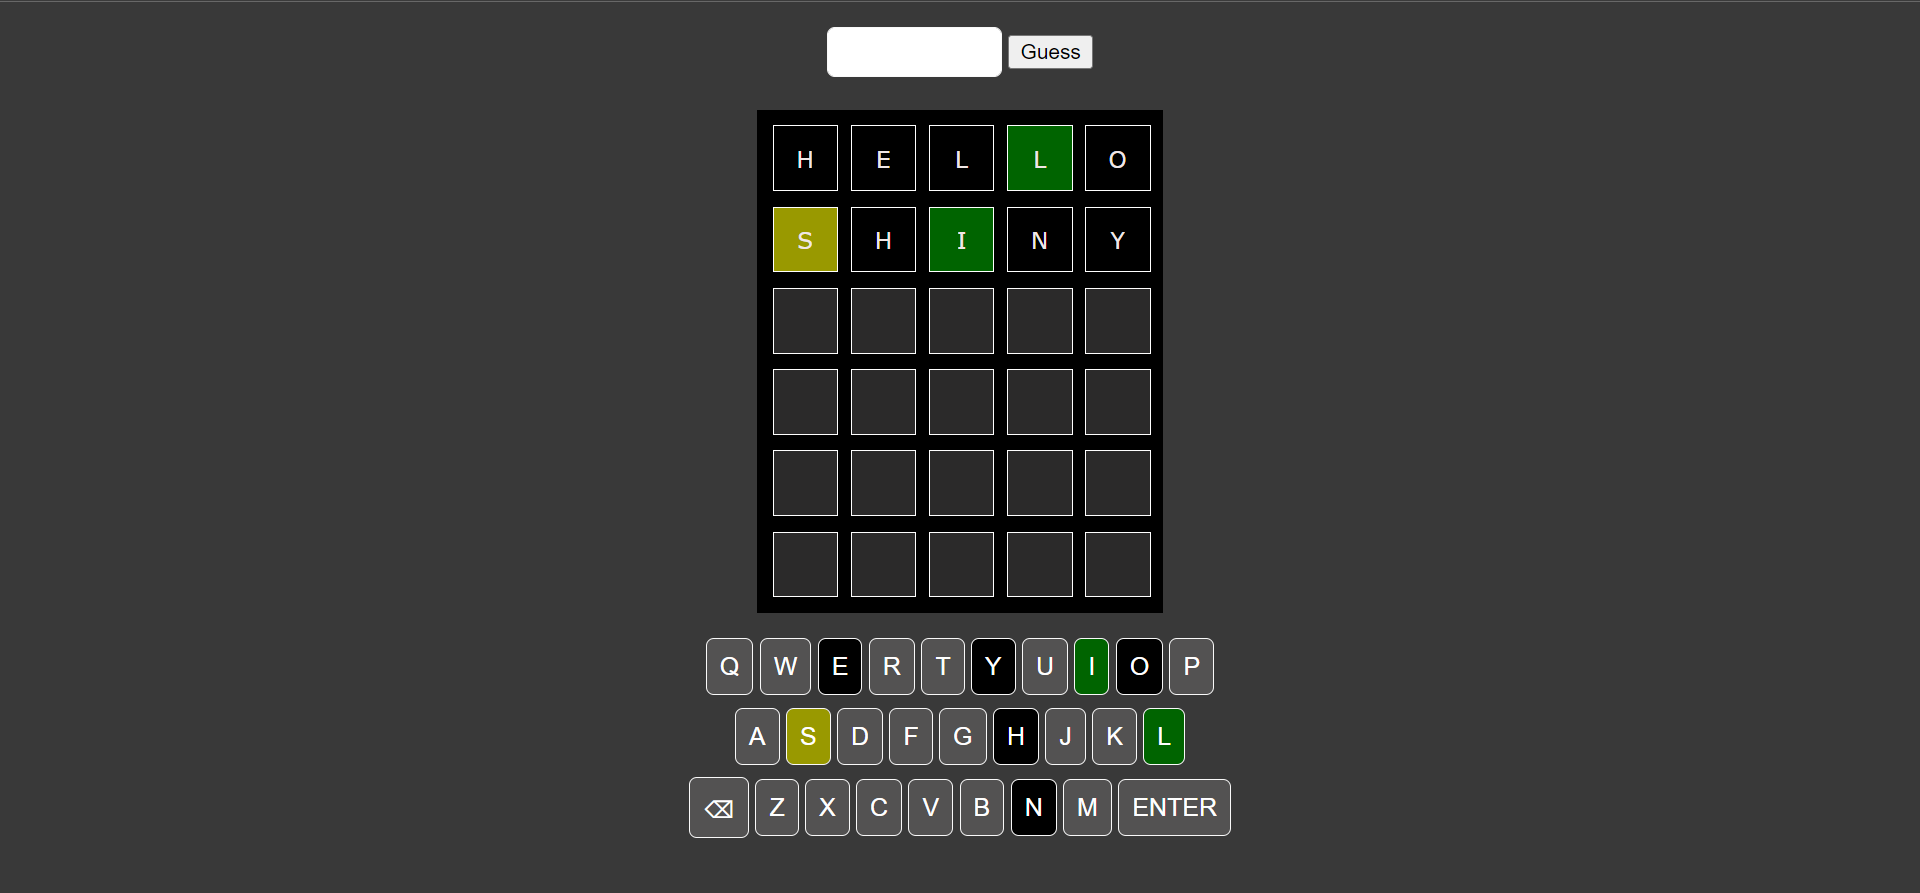
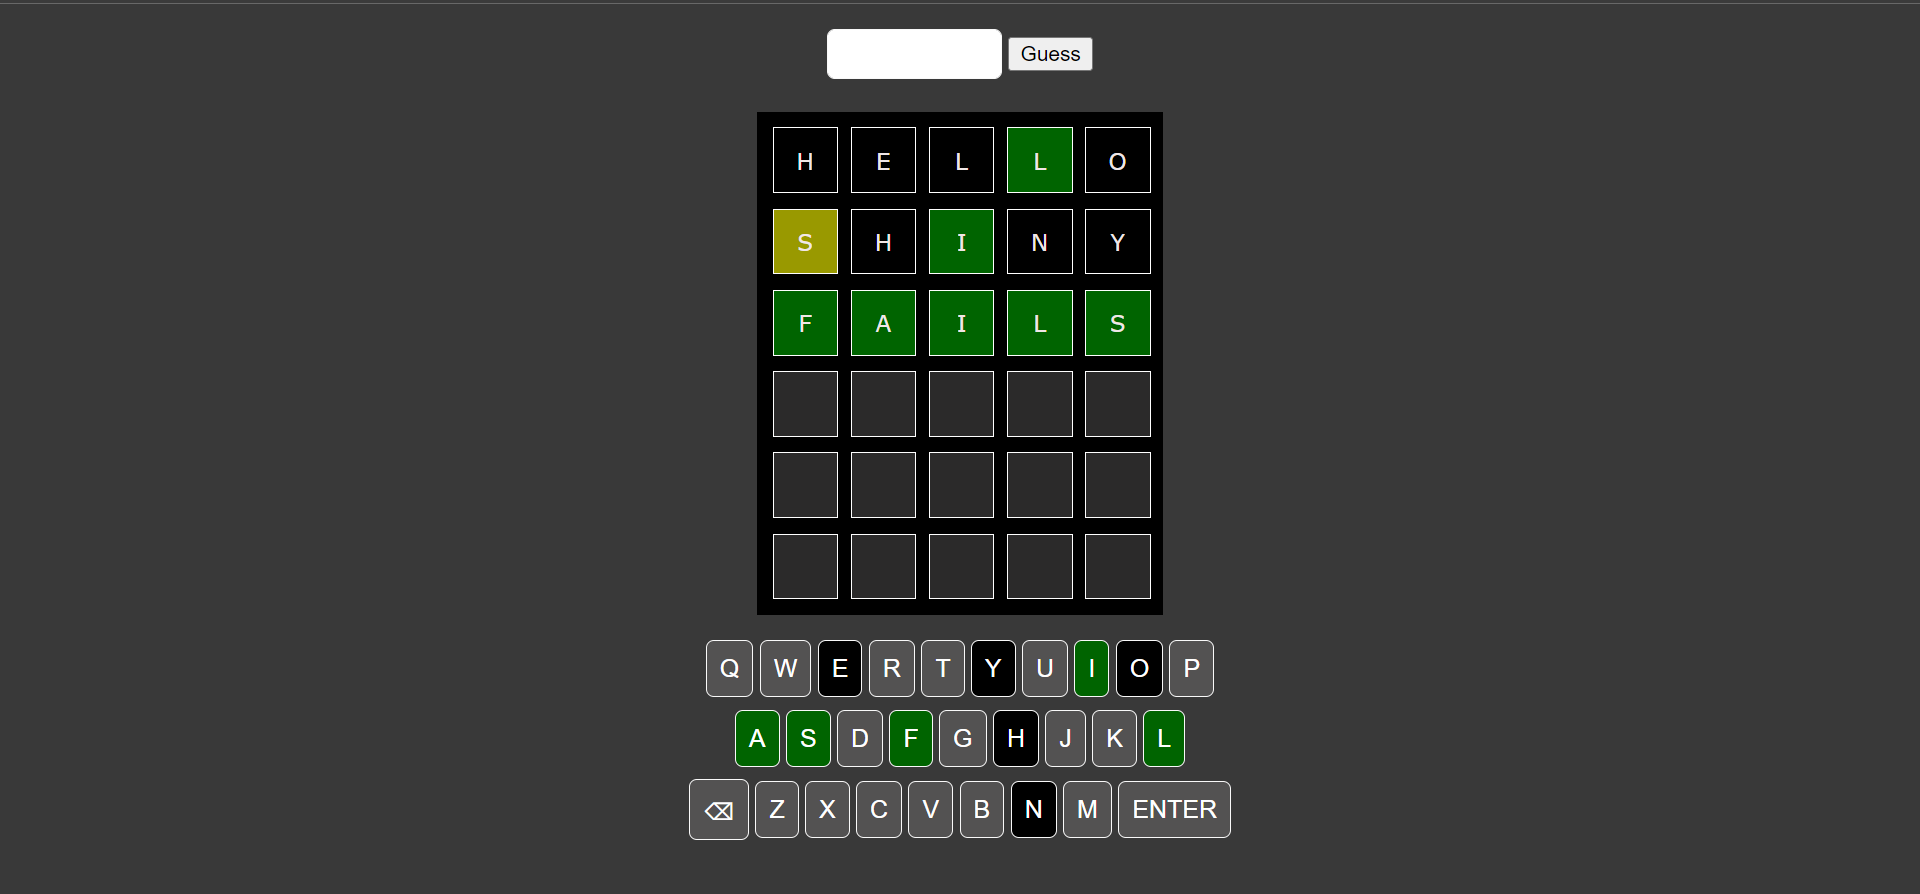
Updates Readme

diff --git a/Wordle APP/JavaScript/wordle.js b/Wordle APP/JavaScript/wordle.js
@@ -19,7 +19,7 @@ function checkWord() {
             for (let j = 0; j < 5; j++) {
                 if (enteredWord[i] == correctWord[j]) {
                     outputColor = setCharAt(outputColor, i, 'Y');
-                    correctWord = setCharAt(correctWord, i, '-');
+                    correctWord = setCharAt(correctWord, j, '-');
                     break;
                 }
             }

diff --git a/README.md b/README.md
@@ -1,4 +1,14 @@
 # **Wordle APP**
+
 - A 5 letter word guessing website very similar to popular Wordle APP based on HTML, CSS and Javascript.
 - Link to the Wordle website: https://shivangidubey08.github.io/Wordle/
-![Wordle App preview](/preview.png)
+  ![Wordle App preview](/preview.png)
+
+# Game Rules
+
+- The player has to guess the Wordle in six attempts or less.
+- Every word, which is entered should be in the word list.
+- If the letter is correct, the color would turn green.
+- If the letter is correct but placed wrong then it would turn yellow.
+- An incorrect letter turns gray.
+- Letters can be used more than one time.
